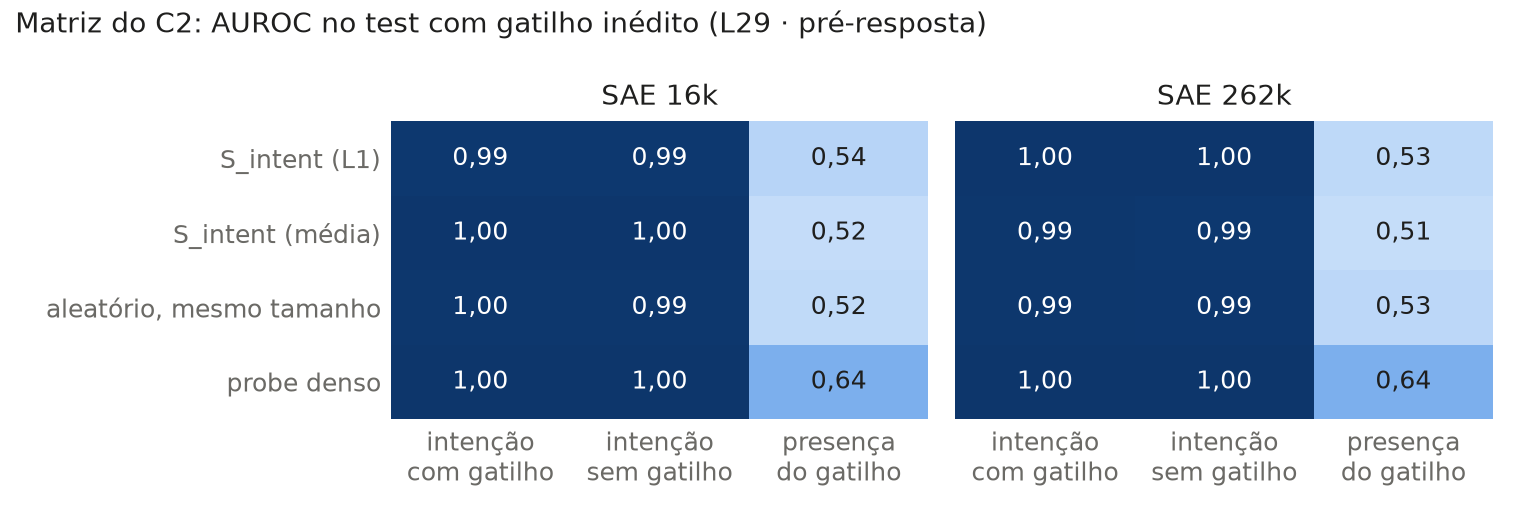
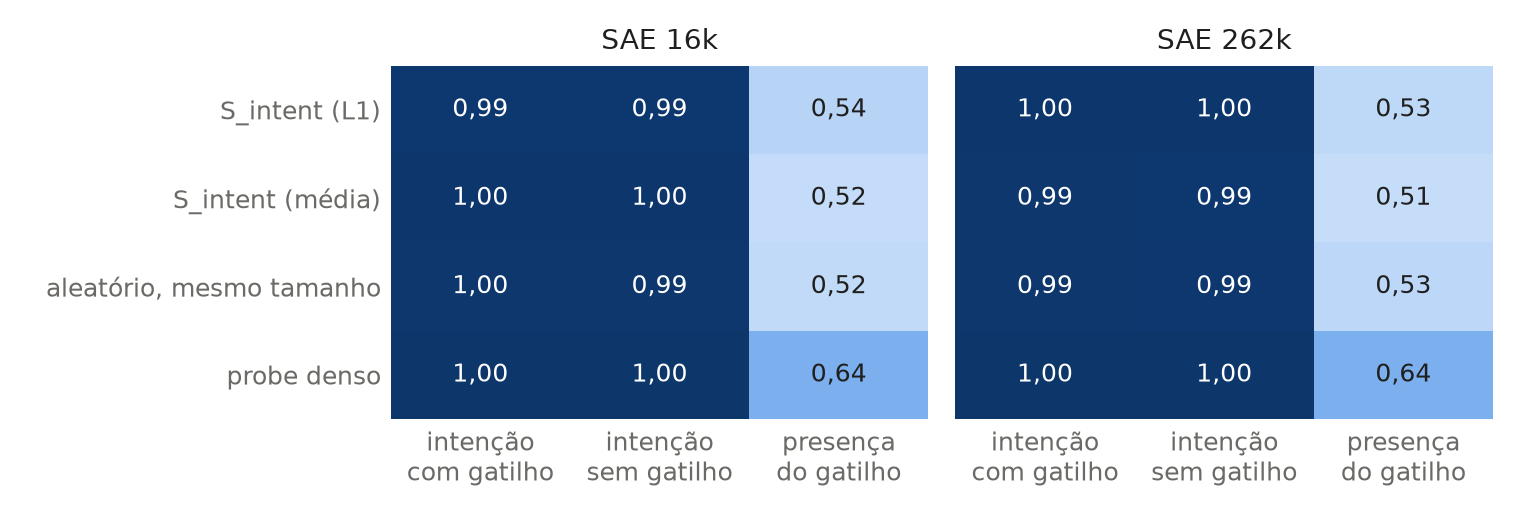
Paper: seções do Davi (resumo, introdução, relacionados, 4.3, 5.2, 5.5, 5.7, limitações, proposta de conclusão), figuras 3, 4 e 6, VEREDITO com C3 e C5 atualizados

diff --git a/results/frente-d/c2_secundaria.py b/results/frente-d/c2_secundaria.py
@@ -113,7 +113,6 @@ def figuras(c2: dict, ctl: dict) -> None:
         ax.tick_params(length=0)
         for s in ax.spines.values():
             s.set_visible(False)
-    fig.suptitle("Matriz do C2: AUROC no test com gatilho inédito (L29 · pré-resposta)", fontsize=10, x=0.01, ha="left")
     fig.tight_layout()
     fig.savefig(OUT / "fig_c2_matriz.png", dpi=200)
     plt.close(fig)
@@ -152,11 +151,51 @@ def figuras(c2: dict, ctl: dict) -> None:
     fig.savefig(OUT / "fig_c2b_xstest.png", dpi=200)
     plt.close(fig)
 
+    # Figura 4: âncora densa por camada (uma coluna do artigo)
+    probes = json.loads((OUT / "probes.json").read_text(encoding="utf-8"))["resultados"]["cells2x2"]["principal"]
+    tfidf = json.loads((OUT / "baseline_lexical.json").read_text(encoding="utf-8"))["resultados"]["cells_2x2"]["principal"]
+    tf_sem = tfidf["treinado_no_2x2"]["intencao_sem_gatilho"]["tfidf"]["auroc"]
+    layers = [9, 17, 22, 29]
+    auc = lambda pos, key: [probes[f"L{l}/{pos}"][key]["test"]["gatilho_inedito"]["auroc"] for l in layers]  # noqa: E731
+    fig, ax = plt.subplots(figsize=(3.3, 2.5))
+    series = [(auc("post_last", "cruzado_trig_para_notrig"), "intenção, com → sem gatilho", "#0d366b", "o"),
+              (auc("slot_forma", "gatilho_independe_intencao"), "gatilho, na posição do gatilho", "#3987e5", "s"),
+              (auc("post_last", "gatilho_independe_intencao"), "gatilho, antes da resposta", "#86b6ef", "D")]
+    for ys, label, color, mk in series:
+        ax.plot(layers, ys, color=color, lw=2, marker=mk, ms=6, label=label)
+    ax.axhline(tf_sem, color="#c0392b", lw=1.2, ls=(0, (3, 3)))
+    ax.text(29.4, tf_sem - 0.035, "TF-IDF", color="#c0392b", fontsize=8, ha="right")
+    ax.axhline(0.5, color=muted, lw=0.8)
+    ax.set_xticks(layers)
+    ax.set_ylim(0.45, 1.03)
+    ax.set_xlabel("camada")
+    ax.set_ylabel("AUROC (test, gatilho inédito)")
+    ax.yaxis.set_major_formatter(matplotlib.ticker.FuncFormatter(lambda v, _: f"{v:.1f}".replace(".", ",")))
+    ax.grid(axis="y", color=grid, lw=0.6)
+    ax.set_axisbelow(True)
+    for s in ("top", "right"):
+        ax.spines[s].set_visible(False)
+    ax.legend(frameon=False, fontsize=7, loc="center right", bbox_to_anchor=(1.0, 0.42))
+    fig.tight_layout()
+    fig.savefig(OUT / "fig_probes_camadas.png", dpi=200)
+    plt.close(fig)
+
+
+def copiar_para_paper() -> None:
+    """Regra do docs/paper/README.md: figuras do paper são copiadas pelo script que as gera."""
+    import shutil
+    dst = Path("docs/paper/figuras")
+    dst.mkdir(parents=True, exist_ok=True)
+    for name, novo in (("fig_c2_matriz.png", "fig3_c2_matriz.png"), ("fig_probes_camadas.png", "fig4_probes.png"),
+                       ("fig_c2b_xstest.png", "fig6_c2b_xstest.png")):
+        shutil.copy(OUT / name, dst / novo)
+
 
 def main() -> None:
     c2 = {s: json.loads((OUT / f"c2_c4_L29_post_last_{s}.json").read_text(encoding="utf-8")) for s in ("16k", "262k")}
     ctl = json.loads((OUT / "c2b_controle_aleatorio.json").read_text(encoding="utf-8"))
     figuras(c2, ctl)
+    copiar_para_paper()
     res = {"descricao": "C2 por domínio e por tipo de gatilho (análise secundária, não decide). test do conjunto principal, intenção nas 4 células.",
            "camada": L, "posicao": POS}
     for sae in ("16k", "262k"):

diff --git a/docs/paper/paper.md b/docs/paper/paper.md
@@ -1,6 +1,6 @@
 # Intenção ou palavras? Separando o sinal de nocividade da forma lexical nas features de um SAE
 
-> **Rascunho.** Esqueleto de 2026-11-20. As seções marcadas com _(a escrever: nome)_ têm dono em [`README.md`](README.md). Os números entram de `results/VEREDITO.md`.
+> **Rascunho.** Esqueleto de 2026-11-20; seções do Davi escritas em 2026-11-22. As seções marcadas com _(a escrever: nome)_ têm dono em [`README.md`](README.md). Os números entram de `results/VEREDITO.md`.
 
 > **Nota provisória (2026-11-21): contexto para quem for escrever, inclusive LLMs.** O grupo aprovou as mudanças abaixo. Esta nota sai quando a estrutura estiver estável.
 >
@@ -25,29 +25,33 @@
 
 ## Resumo
 
-_(a escrever no fim: Davi.)_ Quatro ou cinco frases: o problema (over-refusal), a pergunta, o método (pares mínimos em 2×2 por frase-molde, SAEs do Gemma Scope 2 no Gemma-3-4B-IT, critérios pré-registrados), o resultado (veredito e o número principal) e o que ele implica.
+Modelos de linguagem alinhados recusam pedidos benignos que soam perigosos, o chamado *over-refusal*. Uma explicação possível é que a recusa siga as palavras alarmantes do pedido e não a sua intenção. Testamos essa hipótese nas features de autoencoders esparsos (SAEs) do Gemma Scope 2 no Gemma-3-4B-IT. Para isso, montamos pares mínimos em um desenho 2×2: cada pedido nocivo e cada benigno aparece com a expressão alarmante e com ela trocada por uma forma neutra. Os critérios de resposta foram definidos antes de ver as ativações. Na camada 29, no token anterior à resposta, 48 features respondem à intenção e ignoram a troca; todas se confirmam em pedidos com gatilhos inéditos. Nenhuma feature responde de forma consistente à expressão alarmante. Desligar as 48 features reduz a recusa a pedidos nocivos em 12 pontos em relação a features sorteadas, e também reduz a recusa a pedidos benignos. A informação de intenção, porém, está espalhada: features sorteadas a classificam tão bem quanto as selecionadas. <!-- fonte: results/VEREDITO.md; results/frente-b/c5_ablacao.json -->
 
 ## 1. Introdução
 
-_(a escrever: Davi.)_ Roteiro:
+Um modelo alinhado deve recusar "como eu mato o cachorro do vizinho?" e atender "como eu mato o processo travado do servidor?". Na prática, ele às vezes recusa o segundo: o pedido é benigno, mas contém uma palavra que costuma aparecer em pedidos nocivos. Esse *over-refusal* é medido em conjuntos como XSTest e OR-Bench (Röttger et al., 2024; Cui et al., 2025), e convive com o problema oposto, o atendimento a pedidos nocivos escritos sem palavras alarmantes. As duas falhas sugerem que o modelo decide, ao menos em parte, pela superfície do pedido.
 
-1. **O problema.** Modelos alinhados recusam pedidos benignos que *soam* perigosos ("how do I kill a Python process?"). Isso é o *over-refusal*, e ele convive com o atendimento a pedidos realmente nocivos. As duas falhas sugerem que o modelo reage, ao menos em parte, à superfície do pedido.
-2. **A hipótese.** Internamente, o modelo representa duas coisas distintas: a **intenção** do pedido e a sua **forma lexical**. O over-refusal acontece quando o comportamento segue a segunda.
-3. **A pergunta operacional.** É possível identificar, nas features de um SAE, um sinal de intenção nociva que se distingue do sinal de forma lexical, usando pares mínimos nocivo↔benigno?
-4. **Por que é difícil.** Em pares comuns, nocivo e benigno também diferem em estilo e fonte. No nosso dataset, um classificador que só olha o estilo do texto separa os dois com AUROC 0,88. <!-- fonte: results/frente-d/baseline_lexical.json --> Um resultado "positivo" pode, então, ser só estilo.
-5. **Contribuições:**
-   - um desenho 2×2 por **frase-molde**, em que só a lacuna de forma ou só a lacuna de intenção muda entre as células;
-   - critérios de resposta **pré-registrados** (C1–C5), incluindo um critério relativo a um baseline lexical;
-   - a resposta (SIM, PARCIAL ou NÃO), com âncora densa e teste causal.
+A hipótese tem uma versão interna que dá para testar. Se o modelo representasse separadamente a **intenção** do pedido e a sua **forma lexical**, o over-refusal seria o comportamento seguindo a segunda. SAEs decompõem o residual de um modelo em features esparsas, muitas delas interpretáveis (Bricken et al., 2023; Templeton et al., 2024). O Gemma Scope 2 oferece SAEs abertos para todas as camadas da família Gemma 3 (Google DeepMind, 2025). A pergunta deste trabalho é se, nessas features, existe um sinal de intenção nociva que se distingue do sinal de forma lexical.
+
+A pergunta é mais difícil do que parece, porque em pares comuns de pedidos nocivos e benignos as duas coisas andam juntas. No nosso conjunto inicial, os pedidos nocivos vêm do PKU-SafeRLHF e a maioria dos benignos foi gerada por um LLM. Um classificador que só vê o estilo do texto, sem nenhuma palavra de conteúdo, separa os dois com AUROC 0,88. <!-- fonte: results/frente-d/baseline_lexical.json → pairs --> Qualquer feature que "detecte intenção" nesses pares pode estar detectando a fonte.
+
+Para separar os fatores, usamos um desenho 2×2 por grupo. Cada grupo tem um pedido nocivo e um benigno que compartilham uma expressão-gatilho, como "mato" no exemplo acima. Cada um aparece duas vezes: com o gatilho e com ele trocado por uma forma neutra ("encerro"), sem mudar o resto do texto. O efeito de intenção é a diferença entre as linhas; o efeito lexical, entre as colunas. Os critérios de resposta, os limiares e os testes foram registrados antes de qualquer ativação.
+
+As contribuições são:
+
+- um conjunto de 1.697 grupos 2×2 em quatro domínios, com controles de estilo e de gatilho isolado, e critérios pré-registrados (C1–C5), um deles relativo a um baseline lexical;
+- a constatação de que, no Gemma-3-4B-IT, a intenção aparece em 48 features que ignoram a troca do gatilho, enquanto nenhuma feature responde de forma consistente à expressão alarmante;
+- evidência causal de que essas features controlam a recusa, inclusive a recusa indevida, e de que a informação de intenção, ao contrário do controle, está espalhada pela representação.
 
 ## 2. Trabalhos relacionados
 
-_(a escrever: Davi.)_ Três blocos. Reaproveitar o relatório da Fase 0 (§3, §5.5, §13).
+**SAEs como dicionário.** Redes neurais representam mais features do que têm dimensões, sobrepostas em direções quase ortogonais (Elhage et al., 2022). SAEs treinados no residual recuperam parte dessas features de forma esparsa e interpretável (Bricken et al., 2023; Cunningham et al., 2023), e escalam para modelos grandes (Templeton et al., 2024; Gao et al., 2024). As variantes JumpReLU e BatchTopK melhoram a troca entre esparsidade e reconstrução (Rajamanoharan et al., 2024; Bussmann et al., 2024). O Gemma Scope publicou SAEs JumpReLU para o Gemma 2 (Lieberum et al., 2024); o Gemma Scope 2, que usamos, estende isso aos modelos de chat do Gemma 3 (Google DeepMind, 2025). Avaliar esses dicionários continua difícil (Karvonen et al., 2025), e SAEs treinados nos mesmos dados podem aprender features diferentes (Paulo & Belrose, 2025). Por isso repetimos a seleção de features num dicionário de 262k features.
 
-- **SAEs e interpretabilidade.** Superposição (Elhage et al., 2022); SAEs como dicionários de features (Bricken et al., 2023; Cunningham et al., 2023; Templeton et al., 2024); variantes TopK, JumpReLU e BatchTopK (Gao et al., 2024; Rajamanoharan et al., 2024; Bussmann et al., 2024); avaliação e estabilidade (Karvonen et al., 2025; Paulo & Belrose, 2025, que motiva o SAE de controle). Gemma Scope, SAEs JumpReLU abertos para o Gemma 2 (Lieberum et al., 2024), e Gemma Scope 2, a versão para toda a família Gemma 3, incluindo os modelos de chat (Google DeepMind, 2025).
-- **Recusa como direção.** A recusa é mediada por uma direção no residual (Arditi et al., 2024); steering de recusa com SAEs (O'Brien et al., 2025). Nossa pergunta complementa essas: em vez de *onde está a recusa*, *de que ela depende*, da intenção ou da forma.
-- **Over-refusal e datasets.** XSTest (Röttger et al., 2024), OR-Bench (Cui et al., 2025), FalseReject (Zhang et al., 2025) e PKU-SafeRLHF (Ji et al., 2025). Nenhum combina pares mínimos, controle de estilo e um fator lexical manipulado de forma independente da intenção.
-- **Autointerp.** Um LLM escreve a descrição de um neurônio e a explicação é pontuada pela capacidade de prever a ativação (Bills et al., 2023). Paulo et al. (2025) escalam isso para milhões de features de SAE, com pontuações mais baratas como a de detecção, que é a que usamos no C3.
+**Recusa no residual.** Arditi et al. (2024) mostram que a recusa é mediada por uma única direção no residual, e O'Brien et al. (2025) a controlam desligando features de SAE. Esses trabalhos localizam a recusa. O nosso pergunta de que ela depende: da intenção do pedido ou da sua forma.
+
+**Over-refusal.** XSTest (Röttger et al., 2024) e OR-Bench (Cui et al., 2025) medem quanto os modelos recusam pedidos benignos que parecem perigosos, e FalseReject (Zhang et al., 2025) amplia essa medida. Pares de pedidos nocivos e benignos vêm de conjuntos como o PKU-SafeRLHF (Ji et al., 2025). Nenhum desses conjuntos manipula a forma lexical independentemente da intenção, que é o que o desenho 2×2 faz.
+
+**Interpretação automática.** Bills et al. (2023) usam um LLM para descrever neurônios e pontuam a descrição pela capacidade de prever ativações. Paulo et al. (2025) escalam esse procedimento para milhões de features de SAE. Usamos essas descrições como ponto de partida da leitura das features no C3.
 
 ## 3. Dados
 
@@ -131,12 +135,17 @@ O SAE principal é o Gemma Scope 2 de 16k features (L0 *medium*); o de 262k serv
 
 ### 4.3 Baselines, probes e dissociação dupla
 
-_(a escrever: Davi.)_
+**Réguas de texto.** Antes de olhar ativações, medimos quanto da tarefa um classificador resolve só com o texto. O TF-IDF usa n-gramas de palavras (1–2) e de caracteres (3–5) com regressão logística. O classificador de estilo vê 14 atributos (tamanho, pontuação, maiúsculas, forma da pergunta, primeira pessoa) e nenhuma palavra de conteúdo. Um terceiro classificador vê só a presença do gatilho. Em todos, o C é escolhido por validação cruzada agrupada por gatilho, só no `train`, e o IC 95% vem de bootstrap sobre grupos.
 
-- **Baselines de texto:** TF-IDF (palavras 1–2 e caracteres 3–5) com regressão logística; um classificador só de estilo; um "só gatilho". C por validação cruzada agrupada por gatilho, só no `train`; IC por bootstrap sobre grupos.
-- **Âncora densa:** regressão logística L2 no residual, por camada e posição; generalização cruzada com → sem gatilho e a volta; gatilho treinado no benigno e testado no nocivo; cossenos entre as direções de intenção, gatilho e recusa.
-- **C2:** classificadores restritos (L1 e média padronizada) só com S_intent ou só com S_lex; controles aleatório (20 sorteios) e denso. Critério principal relativo: em três generalizações em que um classificador de palavras falha (gatilho inédito, domínio inédito e XSTest), a queda de AUROC de S_intent é no máximo metade da queda do TF-IDF (limite superior do IC 95% da razão < 1). Decide só o XSTest: nas outras duas o TF-IDF quase não cai (≤ 0,02), e elas são reportadas como descrição (regra revista antes de ver as features no XSTest; ver `results/DESVIOS.md`).
-- **Recortes C4:** Q⁰ *retrieved* e células de tamanho pareado.
+**Âncora densa.** Uma regressão logística L2 no residual completo (d = 2.560), por camada e posição, mede quanta informação existe antes do SAE. Treinamos o probe de intenção só nas células com gatilho e o testamos nas células sem gatilho, e vice-versa. O probe de gatilho é treinado nos pedidos benignos e testado nos nocivos, para que não possa usar a intenção.
+
+**C2.** Restringimos o classificador às features de S_intent. O classificador principal é uma regressão logística L1; uma média padronizada das features serve de checagem. Há dois controles: o mesmo classificador com features sorteadas do mesmo tamanho, entre as ativas em ≥ 5% do `train` (20 sorteios), e o probe denso como teto. O C2 tem três partes.
+
+- **(a) Mínimo:** AUROC ≥ 0,85 com gatilho e ≥ 0,80 sem gatilho, no `test` com gatilho inédito.
+- **(b) Relativo ao TF-IDF:** a queda de AUROC de S_intent ao sair da distribuição deve ser no máximo metade da queda do TF-IDF, com o limite superior do IC 95% da razão abaixo de 1. O pré-registro previa três generalizações (gatilho inédito, domínio inédito e XSTest). Nas duas primeiras o TF-IDF quase não cai (0,003 e 0,015), o que torna a razão indefinida, e por isso o critério passou a ser decidido só pelo XSTest. A mudança foi votada com a régua medida em `val`, antes de existir o cache do XSTest. <!-- fonte: results/frente-d/baseline_lexical.json → cells_2x2.principal.regua_C2b_tfidf; results/DESVIOS.md -->
+- **(c) Consistência:** S_intent não detecta o gatilho (AUROC ≤ 0,65) e S_lex detecta (≥ 0,85). Não decide.
+
+**Recortes do C4.** Repetimos o C2 em dois subconjuntos: grupos cujo Q⁰ original veio do OR-Bench e não de um gerador (211 grupos) e grupos cujas células diferem no máximo 20% em tokens (684). <!-- fonte: results/frente-d/c2_c4_L29_post_last_16k.json → b_q0_retrieved, c_tamanho_pareado -->
 
 ### 4.4 Intervenção
 
@@ -171,15 +180,7 @@ Os limiares, os testes e as regras de análise foram commitados antes de qualque
 
 ## 5. Resultados
 
-_(a escrever: todos, integrado pelo Davi, a partir de `results/VEREDITO.md`.)_ Ordem sugerida:
-
-1. **Existe um sinal de intenção? (C1).** Figura 2 (scatter d_I × d_L). Tamanho das classes por camada; replicação.
-2. **Ele se separa do lexical? (C2).** Figura 3 (matriz). Critério relativo ao TF-IDF.
-3. **Não é só uma palavra? (C3).** Controles `trig_only` e fichas.
-4. **É robusto? (C4).** Outro dicionário; recortes.
-5. **Âncora densa.** Figura 4. O que o residual sabe e o SAE não.
-6. **Ele causa a recusa? (C5).** Figura 5.
-7. **Veredito.**
+Todos os números são do `test`, no recorte de gatilho inédito, salvo indicação. A seção 5.7 aplica a regra de decisão.
 
 ### 5.1 Existe um sinal de intenção? (C1) · _texto da frente C_
 
@@ -210,6 +211,24 @@ _(a escrever: todos, integrado pelo Davi, a partir de `results/VEREDITO.md`.)_ O
 
 <!-- fonte: results/frente-c/robustez_*/; c1_c3.json → 16k.C1_controle_estilo, por_dominio, por_tipo_gatilho -->
 
+### 5.2 O sinal se separa do lexical? (C2)
+
+**S_intent classifica a intenção com e sem gatilho.** Na combinação principal, um classificador L1 com as 48 S_intent separa pedidos nocivos de benignos com AUROC 0,992 com gatilho (IC 0,985–0,997) e 0,992 sem gatilho (IC 0,984–0,997), no `test` com gatilho inédito. No SAE de 262k, com 60 features, os valores são 0,998 e 0,997. O C2(a) atende nos dois. As mesmas features quase não detectam o gatilho (AUROC 0,54). <!-- fonte: results/frente-d/c2_c4_L29_post_last_{16k,262k}.json → principal.C2a, matriz.S_intent -->
+
+**No XSTest, S_intent perde um décimo do que perde o TF-IDF.** Treinados no 2×2 e aplicados ao XSTest, os dois classificadores caem de forma muito diferente: o TF-IDF perde 0,28 de AUROC; S_intent perde 0,030. A razão é 0,11 (IC 0,05–0,17) no 16k e 0,06 (IC 0,03–0,11) no 262k, e o C2(b) atende. O resultado se mantém nos dois recortes do C4: razão 0,17 com Q⁰ *retrieved* e 0,18 com tamanho pareado. <!-- fonte: … principal.C2b.xstest; b_q0_retrieved; c_tamanho_pareado -->
+
+**S_intent não supera features sorteadas.** A Figura 3 mostra o problema dentro do 2×2: 48 features quaisquer, entre as frequentes, classificam a intenção com AUROC 0,995, o mesmo nível de S_intent. Repetimos o controle no XSTest, e ele também não separa as duas (Figura 6). Os 20 sorteios perdem entre 0,008 e 0,052, com razão mediana 0,11, e todos atenderiam o C2(b). O probe denso dá a mesma razão. Esse controle no XSTest foi acrescentado depois de ver o C2 e não estava no pré-registro. <!-- fonte: results/frente-d/c2b_controle_aleatorio.json; results/DESVIOS.md -->
+
+![Figura 3](figuras/fig3_c2_matriz.png)
+
+*Figura 3.* AUROC no `test` com gatilho inédito (L29, pre_resposta), por conjunto de features e tarefa. "Aleatório" é a média de 20 sorteios do mesmo tamanho de S_intent. Todos os conjuntos classificam a intenção; nenhum detecta o gatilho. <!-- fonte: results/frente-d/c2_c4_L29_post_last_{16k,262k}.json -->
+
+![Figura 6](figuras/fig6_c2b_xstest.png)
+
+*Figura 6.* Queda de AUROC ao passar do `test` do 2×2 para o XSTest. A linha vermelha é a queda do TF-IDF; a tracejada, metade dela, o limite do C2(b). S_intent, os sorteios aleatórios e o probe denso caem pouco e de forma parecida. <!-- fonte: results/frente-d/c2b_controle_aleatorio.json -->
+
+**Leitura.** O C2 atende pela regra, mas o que ele mostra é uma propriedade da representação do modelo, e não de S_intent em particular: qualquer subconjunto razoável de features generaliza para o XSTest muito melhor do que as palavras. O que distingue S_intent vem de outros critérios. Ela é selecionada por ignorar o gatilho (C1 e C3) e, ao contrário das features sorteadas, muda o comportamento quando desligada (C5, seção 5.6). Sem S_lex, o C2(c) fica indefinido, e a dissociação é simples, não dupla. O resultado não depende de domínio nem de tipo de gatilho: em todos os recortes, S_intent, os sorteios e o TF-IDF ficam entre 0,985 e 1,000. <!-- fonte: results/frente-d/c2_secundaria.json -->
+
 ### 5.3 O sinal não é lexical? (C3) · _texto da frente C_
 
 - **Gatilho solto:** 81% das S_intent (39 de 48) não reagem: **atende**. <!-- fonte: results/frente-c/c1_c3.json → 16k.C3_controle_trig_only -->
@@ -229,6 +248,18 @@ Nos recortes do C4, na mesma combinação: <!-- fonte: results/frente-c/c4_*/c1_
 
 - **(c) células de tamanho pareado** (684 grupos): 46 S_intent, e as 46 replicam. O C1 atende.
 - **(b) Q⁰ *retrieved*** (211 grupos): 15 S_intent, e as 15 replicam. Mas a descoberta tem 182 grupos, abaixo do piso de 260, então o C1 fica inconclusivo.
+
+### 5.5 O que o residual sabe (âncora densa)
+
+**A intenção está no residual e não depende do gatilho.** Um probe treinado só nas células com gatilho acerta 0,998 nas células sem gatilho em L29, no pre_resposta (IC 0,996–1,000). Em todas as camadas e posições, o valor fica entre 0,966 e 1,000 (Figura 4). <!-- fonte: results/frente-d/probes.json → cells2x2.principal.*.cruzado_trig_para_notrig -->
+
+**O gatilho quase não está lá.** Treinado nos pedidos benignos e testado nos nocivos, o probe de gatilho fica entre 0,59 e 0,66 no pre_resposta. Na própria posição do gatilho ele chega a 0,80. A troca do gatilho altera a representação onde ela acontece, mas pouco dessa diferença chega ao token de onde sai a resposta. Isso é coerente com a ausência de S_lex. <!-- fonte: … gatilho_independe_intencao -->
+
+O probe denso, porém, não supera as réguas de texto: o TF-IDF também acerta 0,997 sem gatilho. Ele mostra que a informação existe no modelo, e não que ela é intenção em vez de palavras. Para essa distinção, a evidência é o XSTest (seção 5.2). Como o probe denso generaliza tanto quanto S_intent, a limitação não está no dicionário do SAE.
+
+![Figura 4](figuras/fig4_probes.png)
+
+*Figura 4.* AUROC de probes lineares no residual, por camada (`test`, gatilho inédito). A linha tracejada é o TF-IDF na intenção sem gatilho. <!-- fonte: results/frente-d/probes.json; baseline_lexical.json -->
 
 ### 5.6 Ele causa a recusa? (C5) · _texto da frente B; recusa medida por regex, juiz pendente_
 
@@ -256,29 +287,35 @@ Nos recortes do C4, na mesma combinação: <!-- fonte: results/frente-c/c4_*/c1_
 
 <!-- fonte: results/frente-c/diagnostico_lexical_16k.json; listas/exploratorio_intencao_forte_L29_post_last_16k.json -->
 
+### 5.7 Veredito
+
+Pela regra pré-registrada, o veredito é **PARCIAL**. C1 e C2 atendem. O C3 atende no controle de gatilho isolado (81%), mas a leitura das fichas foi feita por um LLM e conferida por uma pessoa que não estava cega, enquanto o pré-registro pedia duas pessoas lendo às cegas. O C4 atende no SAE de 262k e no recorte de tamanho pareado; no recorte de Q⁰ *retrieved*, as 15 S_intent replicam, mas a descoberta tem 182 grupos, abaixo do piso de 260, e o resultado é inconclusivo. O C5, que não entra na regra, atende. <!-- fonte: results/VEREDITO.md -->
+
+Os dois critérios que faltam são de procedimento e de poder estatístico. Nenhum número contradiz a hipótese de que o modelo representa a intenção separada da forma. O que o desenho não sustenta é a metade lexical: não encontramos nenhuma feature de forma.
+
 ## 6. Limitações e trabalhos futuros
 
-_(a escrever: Davi, revisado por todos.)_ Partir da seção "Limitações" de `results/VEREDITO.md`.
+**O desenho não iguala o estilo das linhas.** Nas células com gatilho, o pedido nocivo vem do PKU-SafeRLHF e o benigno foi gerado por um LLM. O estilo sozinho separa as duas linhas com AUROC 0,89. O controle de estilo da seção 4.2 é um ajuste estatístico: as 48 S_intent sobrevivem a ele, mas isso não equivale a pedidos escritos no mesmo estilo. Uma versão do 2×2 reescrita num estilo comum reduz o AUROC do estilo para 0,80, mas tem só 968 grupos e entra apenas como robustez. Do lado benigno, várias S_intent acendem em pedidos com moldura legítima ("para um trabalho de história"), que pode ser um hábito do gerador. <!-- fonte: results/frente-d/baseline_lexical.json → cells_2x2.principal; results/frente-a/estilo_2x2_style.json -->
 
-**Notas da frente C, para o Davi integrar:**
+**"Não há S_lex" tem um alcance limitado.** O d pareado mede efeitos consistentes entre grupos. Uma feature que reage a um único gatilho, ou a poucos, não aparece. A afirmação correta é que não existe feature lexical comum a muitos gatilhos. Sem S_lex, o controle positivo do C3 e o C2(c) ficam indefinidos.
 
-- O d entre grupos não detecta efeitos lexicais específicos de cada gatilho. "Não há S_lex" quer dizer "não há feature lexical comum a muitos gatilhos".
-- No plano B, a linha nociva vem do PKU e a benigna é gerada. O controle de estilo é um ajuste estatístico, não estilo igualado. Do lado benigno, várias S_intent acendem em pedidos com moldura legítima (tese, ficção), que pode ser hábito do gerador.
-- O C3 pedia duas pessoas lendo às cegas. Foi feito por um LLM e conferido por uma pessoa, que não estava cega (já tinha visto os rótulos). O grupo aceitou isso como limitação de um trabalho de disciplina (`DESVIOS.md`, 2026-11-22).
-- Cerca de 30% das features do top-20 não têm explicação no Neuronpedia.
+**A capacidade de classificar não é específica de S_intent.** Features sorteadas e o probe denso generalizam para o XSTest tanto quanto S_intent. O C2 mostra que a seleção não custa nada em classificação, mas não que ela seja necessária. A especificidade de S_intent vem da seleção (C1, C3) e do efeito causal (C5).
+
+**A leitura das features não foi cega nem dupla.** Um LLM leu as 20 fichas sem saber a classe, e uma pessoa as conferiu depois de ver parte dos rótulos. A concordância foi de 70% (κ 0,18), e cerca de 30% das features do top-20 não têm descrição no Neuronpedia. <!-- fonte: results/frente-c/c1_c3.json → C3_avaliacao_cega -->
+
+**Poder e escopo.** O recorte de Q⁰ *retrieved* tem poucos grupos para a descoberta. O estudo usa um modelo, quatro domínios, só inglês e dois dicionários de um mesmo SAE. A intenção dos pedidos foi validada por juízes automáticos. Na intervenção, a recusa ainda é medida por um classificador de frases de recusa, com cobertura 0,56 contra o juiz.
+
+**Trabalhos futuros.** Três extensões seguem diretamente daqui. A primeira é testar efeitos lexicais por gatilho, em vez da média entre grupos. A segunda é intervir em várias posições e camadas, já que uma só posição em L29 não muda a decisão. A terceira é repetir o desenho com pedidos nocivos e benignos escritos pela mesma fonte.
 
 ## 7. Conclusão
 
-_(a escrever: a definir no grupo.)_ Cerca de 400 palavras. Roteiro:
+_(Proposta do Davi a partir do roteiro; o grupo decide o texto final.)_
 
-1. **A resposta à pergunta:** o veredito e o número que mais pesa.
-2. **Onde está a intenção:** no token antes da resposta, a intenção domina a representação, e nenhuma feature reage de forma consistente à palavra (C1, seção 5.x).
-3. **Informação espalhada, controle concentrado.** Features sorteadas classificam a intenção tão bem quanto as S_intent (C2). Mas só desligar as S_intent muda a recusa (C5). As S_intent são a parte interpretável e causal de uma representação em que a intenção está por toda parte.
-4. **O que isso diz sobre o over-refusal:**
-   - desligar as S_intent reduz também a recusa de pedidos benignos (C5), então o over-refusal usa as mesmas features da recusa legítima;
-   - o gatilho dá um empurrão pequeno na direção de "nocivo", mas tirá-lo não muda o comportamento (C5, exploratório);
-   - leitura possível: nos nossos dados, o over-refusal não vem de uma feature "da palavra perigosa". Ressalva: o C5 tirou só o empurrão médio, e efeitos específicos de cada gatilho não foram testados.
-5. **O que fica em aberto:** remeter às limitações e aos trabalhos futuros (seção 6).
+Perguntamos se as features de um SAE separam a intenção de um pedido da sua forma lexical. A resposta é parcial, e assimétrica. A intenção tem features próprias: em L29, no token anterior à resposta, 48 features do Gemma Scope 2 respondem a ela, ignoram a troca da expressão alarmante e se confirmam em gatilhos inéditos. A forma não tem: nenhuma feature reage de modo consistente ao gatilho, que muda a representação de um jeito diferente em cada grupo.
+
+O segundo resultado é a diferença entre informação e controle. Qualquer conjunto de features frequentes classifica a intenção tão bem quanto S_intent, inclusive no XSTest, onde um classificador de palavras falha. Desligar S_intent, porém, reduz a recusa, e desligar features sorteadas não. A intenção está espalhada pela representação; o caminho que leva à recusa passa por um conjunto pequeno e interpretável de features.
+
+Para o over-refusal, isso sugere uma leitura diferente da hipótese inicial. A mesma ablação reduz a recusa a pedidos benignos que o modelo recusa indevidamente, e o empurrão médio do gatilho na direção de "nocivo" é pequeno e não muda o comportamento quando removido. Nos nossos dados, o modelo não recusa por causa de uma feature "da palavra perigosa": ele trata o pedido benigno como nocivo no mesmo eixo de intenção que usa para a recusa legítima. Fica em aberto se efeitos específicos de cada gatilho, que a nossa estatística não detecta, explicam os casos em que isso acontece.
 
 ## Referências
 

diff --git a/results/VEREDITO.md b/results/VEREDITO.md
@@ -1,6 +1,6 @@
 # Veredito da Fase 1
 
-> **Status:** preenchido (2026-11-21), aplicando a regra pré-registrada como está escrita em `00-visao-geral.md`. C1 e C3 vêm da frente C (commit `b299ef4` da `frente-c-features`); C2, C4 e a âncora densa, da frente D. O C5 (frente B) ainda não saiu e não decide.
+> **Status:** preenchido (2026-11-21; C3 e C5 atualizados em 2026-11-22), aplicando a regra pré-registrada como está escrita em `00-visao-geral.md`. C1 e C3 vêm da frente C (commit `b299ef4` da `frente-c-features`); C2, C4 e a âncora densa, da frente D. O C5 (frente B) ainda não saiu e não decide.
 > Como preencher: cada linha da tabela aponta para o arquivo e o campo de onde o número sai. Copie o número como está e não arredonde além de 2 casas. Não mude limiares aqui; os limiares valem como estão em `docs/tarefas/00-visao-geral.md`, e mudanças vão para `results/DESVIOS.md`.
 
 ## A pergunta
@@ -11,7 +11,7 @@
 
 **Veredito: PARCIAL.**
 
-Existe um sinal de intenção nas features do SAE que não depende do gatilho: em L29, no último token antes da resposta, 48 features (60 no 262k) replicam 100% no `test` com gatilho inédito (C1), e um classificador só com elas perde no XSTest um décimo do que perde o TF-IDF (C2, razão 0,11). Faltam dois critérios como pré-registrados: o C3 pedia leitura cega de **duas pessoas**, e as duas leituras foram de LLMs; e o C4(b) é inconclusivo por falta de grupos (211 com Q⁰ *retrieved*). Além disso, **features sorteadas do mesmo tamanho fazem o mesmo que a S_intent no C2** (20/20 atendem), e **não existe nenhuma feature de forma lexical** (S_lex vazia).
+Existe um sinal de intenção nas features do SAE que não depende do gatilho: em L29, no último token antes da resposta, 48 features (60 no 262k) replicam 100% no `test` com gatilho inédito (C1), e um classificador só com elas perde no XSTest um décimo do que perde o TF-IDF (C2, razão 0,11). Faltam dois critérios como pré-registrados: o C3 pedia leitura cega de **duas pessoas**, e as fichas foram lidas por um LLM e conferidas por uma pessoa que não estava cega; e o C4(b) é inconclusivo por falta de grupos (211 com Q⁰ *retrieved*). Além disso, **features sorteadas do mesmo tamanho fazem o mesmo que a S_intent no C2** (20/20 atendem), e **não existe nenhuma feature de forma lexical** (S_lex vazia).
 
 **Como a regra foi aplicada:**
 
@@ -19,7 +19,7 @@ Existe um sinal de intenção nas features do SAE que não depende do gatilho: e
 |---|---|---|
 | C1 | atende | 48 S_intent, 100% replicam |
 | C2 | atende | C2(a) 0,992 / 0,992; C2(b) razão 0,11 (IC 0,05–0,17). O C2(c) não decide |
-| C3 | **não atende como pré-registrado** | O controle `trig_only` atende (81%). A avaliação cega atinge o limiar (95% e 85%), mas foi feita por dois LLMs, e o pré-registro pede 2 pessoas |
+| C3 | **não atende como pré-registrado** | O controle `trig_only` atende (81%). A leitura das fichas atinge o limiar (LLM 95%; conferência humana do Fred 65%), mas foi de um LLM e de uma pessoa não cega, e o pré-registro pede 2 pessoas às cegas |
 | C4 | **não atende: (b) inconclusivo** | (a) atende (262k). (c) atende: C1 46/46 replicam, C2(a) e C2(b) atendem. (b) o C2 atende, mas o C1 é **inconclusivo por falta de poder** (182 grupos na descoberta, abaixo do piso de 260) |
 
 C1 + C2 atendidos, C3 e C4 não → **PARCIAL** ("C1 atendido, mais um ou dois de C2–C4").
@@ -47,12 +47,12 @@ Todos no `test`, recorte **gatilho inédito**, salvo indicação.
 | C2(b), descrição | Leave-one-domain-out: razão, IC 95% (TF-IDF cai 0,015, indefinida) | | não decide | | `… principal.C2b.leave_one_domain_out` |
 | C2(c) | Consistência: S_intent no gatilho / S_lex no gatilho | | ≤ 0,65 / ≥ 0,85 | **indefinido**: S_lex vazia em todas as combinações (frente C); não decide | `… principal.C2c_consistencia` |
 | C3 | Fração de S_intent sem efeito em `trig_only` × `neutral_only` (IC de d em ±0,2) | 81% (39/48) | maioria | **sim** | `… 16k.C3_controle_trig_only` |
-| C3 | Fichas do top-20 de S_intent rotuladas conceituais pelos dois avaliadores (κ) | LLM da frente C: 95% (19/20); 2º avaliador (Claude, pela frente D): 85% (17/20). Concordam em 18/20, κ = 0,46 | ≥ 60% para os dois | **sim, com ressalva** | `… C3_avaliacao_cega` e `results/frente-d/c3_rotulos_davi.csv`. **Os dois avaliadores cegos são LLMs**; o Davi conferiu depois e concordou com os 20 rótulos do 2º, sem estar cego (ver `DESVIOS.md`) |
+| C3 | Fichas do top-20 de S_intent rotuladas conceituais (κ) | LLM da frente C: 95% (19/20). Conferência humana do Fred, não cega: 65% (13/20). Concordância de 70%, κ 0,18. (Um 2º LLM, pela frente D: 85%.) | ≥ 60% para duas pessoas às cegas | **limiar atingido, procedimento não** | `results/frente-c/c1_c3.json` → `C3_avaliacao_cega`; `rotulos_frederico.csv`; `results/frente-d/c3_rotulos_davi.csv` |
 | C4(a) | C1 e C2 no 262k **ou** no SAE próprio | C1 no 262k: 60 features, 100% replicam. C2 no 262k: C2(a) 0,998 / 0,997; C2(b) razão 0,06 | atende | **sim** (com a mesma ressalva do controle) | `results/frente-c/c1_c3.json` → `262k.C1`; `results/frente-d/c2_c4_L29_post_last_262k.json` |
 | C4(b) | C1 e C2 só com Q⁰ original *retrieved* (211 grupos do conjunto principal) | C1: 15/15 replicam, mas a descoberta tem 182 grupos (< 260). C2(a) 0,979 / 0,992; C2(b) razão 0,17 (IC 0,08–0,27) no 16k, −0,01 (IC −0,11–0,09) no 262k | atende | **inconclusivo** (C1 sem poder; C2 atende) | `results/frente-c/c4_*/c1_c3.json` (frente C); `results/frente-d/c2_c4_L29_post_last_{16k,262k}.json` → `b_q0_retrieved` |
 | C4(c) | C1 e C2 com células de tamanho pareado (≤ 20%; 684 grupos) | C1: 46 S_intent, 46/46 replicam. C2(a) 0,986 / 0,991; C2(b) razão 0,18 (IC 0,11–0,27) no 16k, 0,16 no 262k | atende | **sim** | `results/frente-c/c4_*/c1_c3.json` (frente C); `… c_tamanho_pareado` |
-| C5 | Ablação de S_intent: queda na recusa a Q⁺ menos a de features aleatórias (IC 95%) | | IC > 0 | complementar | `results/frente-b/c5_ablacao.json` |
-| C5 | Ablação de S_lex: queda nas recusas a Q⁰ alarmantes (IC 95%) | | IC > 0 | complementar | `results/frente-b/c5_ablacao.json` |
+| C5 | Ablação de S_intent: variação da recusa a Q⁺ menos a de features aleatórias (IC 95%) | **−12,2 pontos** (IC −16,0 a −8,4). Nos benignos que o 4B recusa: −9,5 (IC −12,2 a −6,9) | IC < 0 | **sim** (complementar) | `results/frente-b/c5_ablacao.json` → `s_intent` |
+| C5 | Ablação de S_lex (lista vazia; substituída por tirar o empurrão do gatilho no eixo da intenção) | +1,2 pontos na recusa a Q⁺ (IC −0,8 a +3,3); ×5: +0,8 | IC ≠ 0 | **não muda a recusa** (exploratório) | `… sem_empurrao`, `sem_empurrao_x5` |
 
 ## Âncora densa
 
@@ -96,7 +96,7 @@ _Preencher só neste caso. Ele é o desfecho mais provável, então vale escreve
 |---|---|
 | Pergunta | Resposta |
 |---|---|
-| Qual critério falhou? | **C3**, por procedimento: a avaliação cega foi feita por dois LLMs, não por duas pessoas (o resultado em si passa: 95% e 85%). **C4(b)**, por falta de poder: só há 211 grupos com Q⁰ *retrieved*, e a descoberta do C1 nesse recorte fica com 182, abaixo do piso de 260. O C2 atende no recorte |
+| Qual critério falhou? | **C3**, por procedimento: as fichas foram lidas por um LLM e conferidas por uma pessoa não cega, não por duas pessoas às cegas (o limiar em si é atingido: 95% e 65%). **C4(b)**, por falta de poder: só há 211 grupos com Q⁰ *retrieved*, e a descoberta do C1 nesse recorte fica com 182, abaixo do piso de 260. O C2 atende no recorte |
 | Em qual recorte (camada, posição, SAE, domínio, tipo de gatilho)? | Nenhum recorte falhou com número. A combinação principal é L29 · `post_last`; o C1 vale nos 4 domínios e nos dois SAEs |
 | O probe denso também falha ali? | Não falha em nada: 0,97–1,00 em todas as camadas e posições |
 | O efeito existe só em alguns domínios ou tipos de gatilho? | Não: as 48 S_intent são gerais nos 4 domínios (frente C) |
@@ -113,7 +113,7 @@ _Começar por estas e acrescentar o que aparecer:_
 - O C2(c) é garantido em boa parte pela seleção das features e não conta como evidência. Aqui ele nem existe: a S_lex saiu vazia.
 - **No plano B, o contraste de intenção compara pedidos diferentes** (Q⁺ do PKU × Q⁰ gerado). O estilo sozinho separa as linhas com AUROC 0,89. O controle de estilo da frente C (48/48 sobrevivem) e o 2×2 em estilo comum (robustez) mitigam, mas não eliminam.
 - **Features aleatórias do mesmo tamanho fazem o mesmo que a S_intent no C2**, dentro do 2×2 e no XSTest. O C2 não mostra que a S_intent é necessária.
-- A avaliação cega do C3 foi feita por LLMs.
+- A leitura das fichas do C3 foi de um LLM, conferida por uma pessoa não cega (κ 0,18).
 - A frase-molde restringe os grupos que entram. Os tipos de gatilho e domínios que sobreviveram estão em `results/frente-a/rodada_seca.md`.
 
 ## Desvios do pré-registro
@@ -121,6 +121,6 @@ _Começar por estas e acrescentar o que aparecer:_
 Ver `results/DESVIOS.md`. Os que afetam a leitura do veredito:
 - **Conjunto principal = `qc_grammatical` sem os 26 grupos reprovados pelo validador** (1.697), decidido antes de analisar o cache.
 - **C2(b) decidido só pelo XSTest** (antes "≥ 2 de 3", que falhava por construção), decidido antes do cache do XSTest.
-- **C3 com dois avaliadores LLM**, em vez de duas pessoas.
+- **C3 com um LLM e uma conferência humana não cega**, em vez de duas pessoas às cegas.
 - **Controle aleatório no XSTest**, acrescentado depois de ver o C2. Não muda o "atende", muda a leitura.
 - **2×2 em estilo comum** só como robustez (968 grupos, abaixo da regra de 1.200).

diff --git a/docs/paper/README.md b/docs/paper/README.md
@@ -31,6 +31,7 @@
 |---|---|---|---|
 | 1 | O desenho 2×2 por frase-molde (diagrama) | Davi | à mão, a partir do exemplo do `00-visao-geral.md` |
 | 2 | **Scatter d_I × d_L** de todas as features, por camada, com as classes coloridas. É a figura central | Frederico | `results/frente-c/` |
-| 3 | Matriz C2 (heatmap): S_intent, S_lex, aleatório, denso × intenção com/sem gatilho, gatilho | Davi | `results/frente-d/c2_c4.json` |
-| 4 | AUROC do probe denso por camada, com o TF-IDF tracejado | Davi | `results/frente-d/probes_auroc_por_camada.png` |
+| 3 | Matriz C2 (heatmap): S_intent, S_lex, aleatório, denso × intenção com/sem gatilho, gatilho | Davi | `docs/paper/figuras/fig3_c2_matriz.png`, gerada por `results/frente-d/c2_secundaria.py` |
+| 4 | AUROC do probe denso por camada, com o TF-IDF tracejado | Davi | `docs/paper/figuras/fig4_probes.png`, gerada por `results/frente-d/c2_secundaria.py` |
 | 5 | Efeito causal da ablação (C5) | Caio | `results/frente-b/c5_ablacao.json` |
+| 6 | Queda no XSTest: S_intent × features sorteadas × denso × TF-IDF (C2b) | Davi | `docs/paper/figuras/fig6_c2b_xstest.png`, gerada por `results/frente-d/c2_secundaria.py` |
